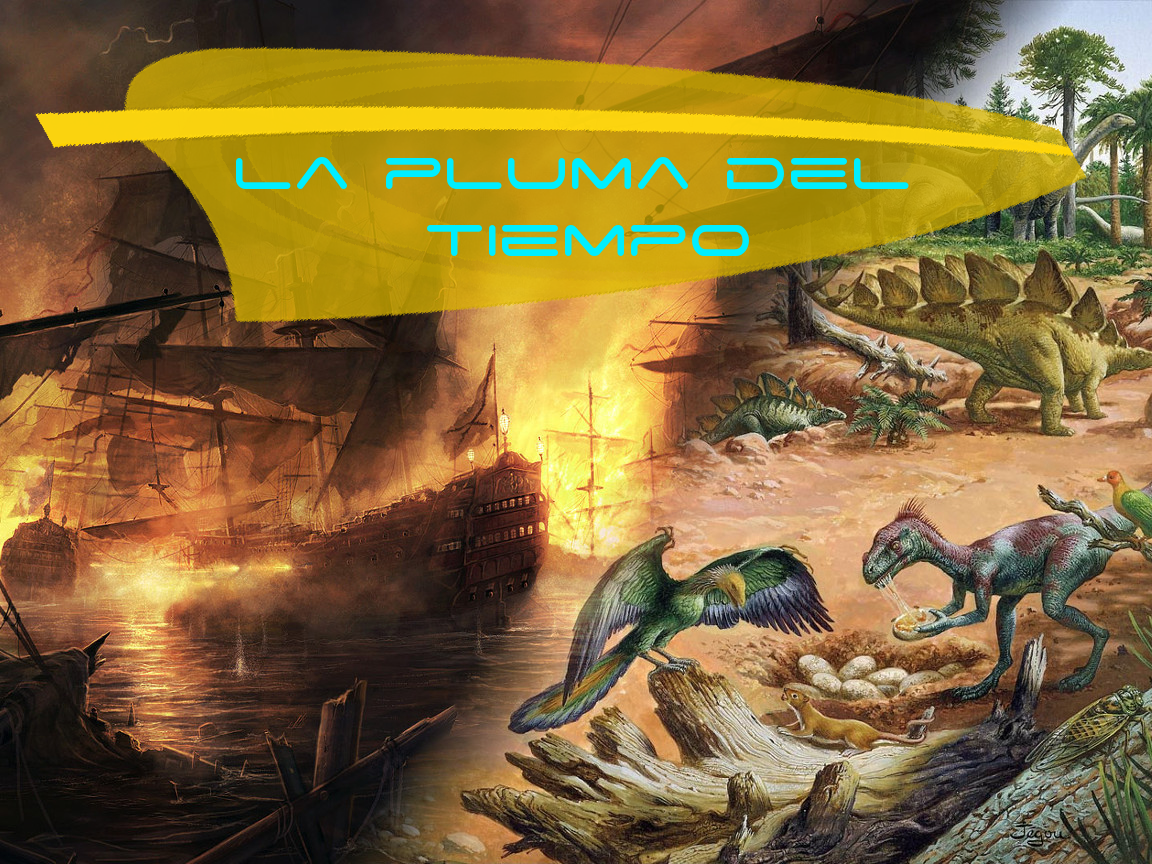
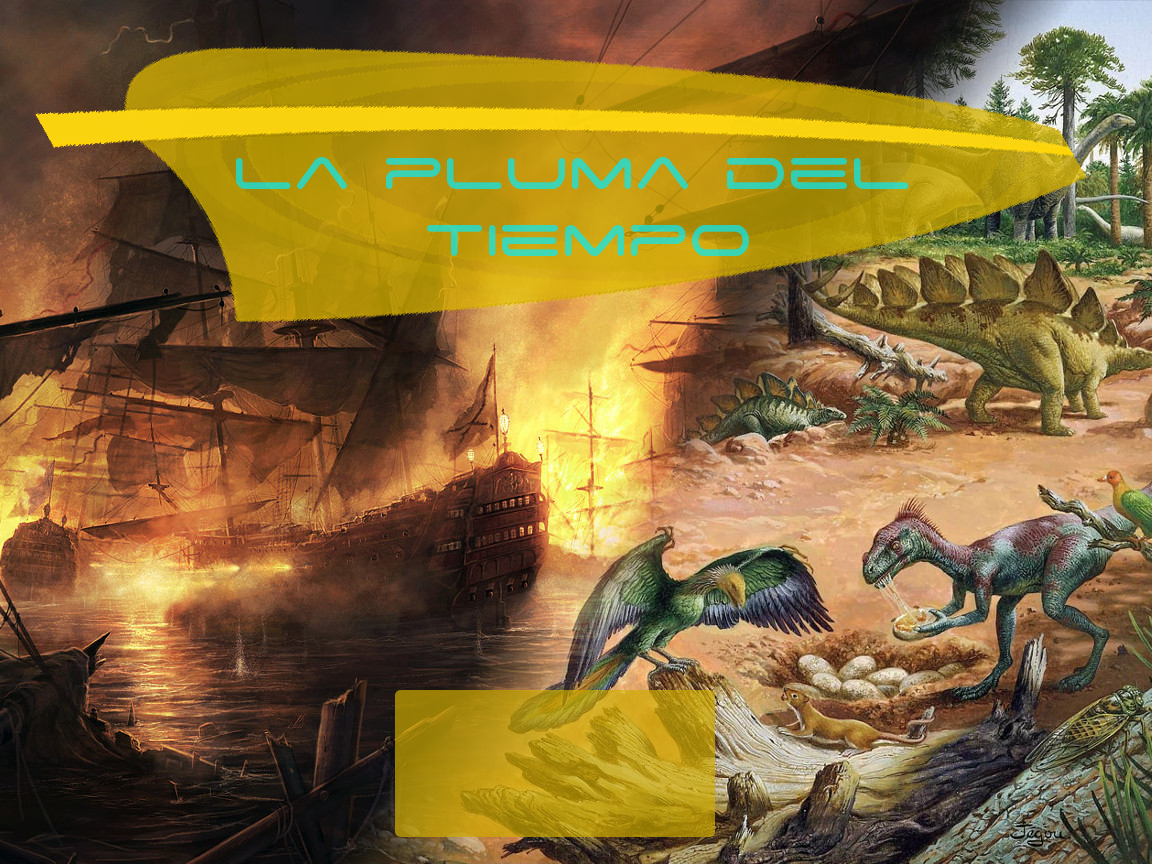
Muestra el título del juego. Los botones de inicio usan la misma fuente

diff --git a/Game/menu.py b/Game/menu.py
@@ -49,13 +49,15 @@ class Boton(ElementoGUI):
 
 class BotonJugar(Boton):
     def __init__(self, pantalla):
-        Boton.__init__(self, pantalla, 'menu_boton_verde.png', (ANCHO_PANTALLA*0.7 ,ALTO_PANTALLA*0.85))
+        Boton.__init__(self, pantalla, 'menu_boton_verde.png', 
+            (ANCHO_PANTALLA*0.7 ,ALTO_PANTALLA*0.85))
     def accion(self):
         self.pantalla.menu.ejecutarJuego()
 
 class BotonSalir(Boton):
     def __init__(self, pantalla):
-        Boton.__init__(self, pantalla, 'menu_boton_rojo.png', (ANCHO_PANTALLA*0.7,ALTO_PANTALLA*0.9))
+        Boton.__init__(self, pantalla, 'menu_boton_rojo.png', 
+            (ANCHO_PANTALLA*0.7,ALTO_PANTALLA*0.9))
     def accion(self):
         self.pantalla.menu.salirPrograma()
 
@@ -73,19 +75,24 @@ class TextoGUI(ElementoGUI):
     def dibujar(self, pantalla):
         pantalla.blit(self.imagen, self.rect)
 
+# ¡Ojo con el tamaño de las fuentes! Casi con total seguridad internamente el
+# tamaño se indexa comentando en 0, como los arrays.
+# Una vez cargada la fuente, si se usa el método fuente.get_height() nos devuelve
+# height-1 respento a los valores del constructor.
 class TextoJugar(TextoGUI):
     def __init__(self, pantalla):
-        # La fuente la debería cargar el estor de recursos
-        fuente = pygame.font.SysFont('arial', 20);
-        TextoGUI.__init__(self, pantalla, fuente, (0, 0, 0), 'Empezar', (ANCHO_PANTALLA*0.74, ALTO_PANTALLA*0.85))
+        fuente = GestorRecursos.CargarFuente('menu_font_space_age.ttf', 25)
+        TextoGUI.__init__(self, pantalla, fuente, (0, 0, 0), 'Comenzar', 
+            (ANCHO_PANTALLA*0.33, ALTO_PANTALLA*0.85))
     def accion(self):
         self.pantalla.menu.ejecutarJuego()
 
 class TextoSalir(TextoGUI):
     def __init__(self, pantalla):
         # La fuente la debería cargar el estor de recursos
-        fuente = pygame.font.SysFont('arial', 20);
-        TextoGUI.__init__(self, pantalla, fuente, (0, 0, 0), 'Finalizar', (ANCHO_PANTALLA*0.74, ALTO_PANTALLA*0.9))
+        fuente = GestorRecursos.CargarFuente('menu_font_space_age.ttf', 25-1)
+        TextoGUI.__init__(self, pantalla, fuente, (0, 0, 0), 'Salir', 
+            (ANCHO_PANTALLA*0.33, ALTO_PANTALLA*0.9))
     def accion(self):
         self.pantalla.menu.salirPrograma()
 

diff --git a/Game/gestorRecursos.py b/Game/gestorRecursos.py
@@ -129,6 +129,27 @@ class GestorRecursos(object):
 			return sound
 
 	@classmethod
+	def CargarFuente(cls, nombre, height):
+		# Si el nombre de archivo está entre los recursos ya cargados
+		if nombre in cls.recursos and height == cls.recursos[nombre].get_height():
+			# Se devuelve ese recurso
+                        return cls.recursos[nombre]
+		# Si no ha sido cargado anteriormente
+		else:
+			# Se carga la imagen indicando la carpeta en la que está
+			fullname = os.path.join('fonts', nombre)
+                        print fullname
+			try:
+				font = pygame.font.Font(fullname, height)
+			except pygame.error, message:
+				raise SystemExit, message
+			# Se almacena
+			cls.recursos[nombre] = font
+			# Se devuelve
+                        print "Nueva fuente devuelta"
+			return font
+
+	@classmethod
 	def CargarGif(cls, folder, frames, colorkey=None):
 		# Si el nombre de archivo está entre los recursos ya cargados
 		nombre = 'gif-' + folder
@@ -151,7 +172,9 @@ class GestorRecursos(object):
 					if colorkey is -1:
 						colorkey = imagen.get_at((0,0))
 					imagen.set_colorkey(colorkey, RLEACCEL)
-				imagen = pygame.transform.scale(imagen, (int(imagen.get_size()[0]*ESCALA), int(imagen.get_size()[1]*ESCALA)))
+				imagen = pygame.transform.scale(imagen, 
+                                    (int(imagen.get_size()[0]*ESCALA), 
+                                    int(imagen.get_size()[1]*ESCALA)))
 				gif.append(imagen)
 				# Se almacena
 			cls.recursos[folder] = gif
